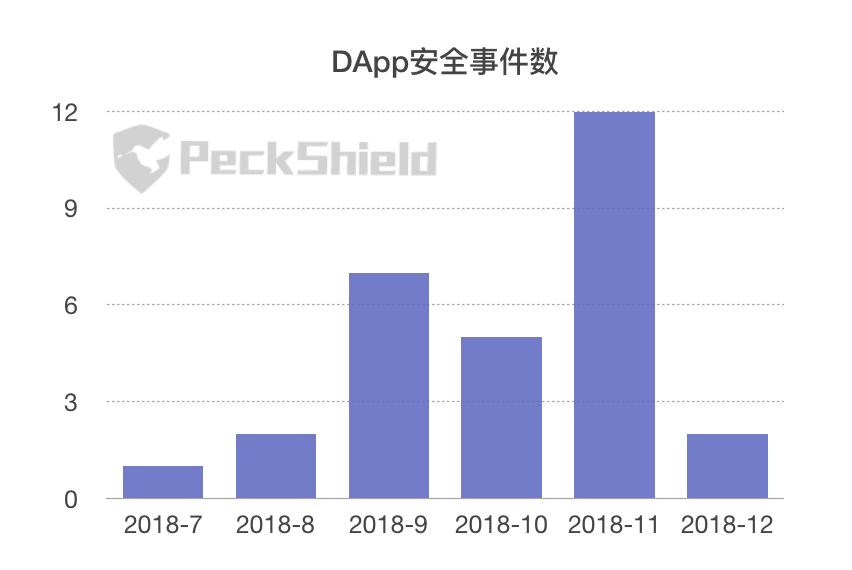
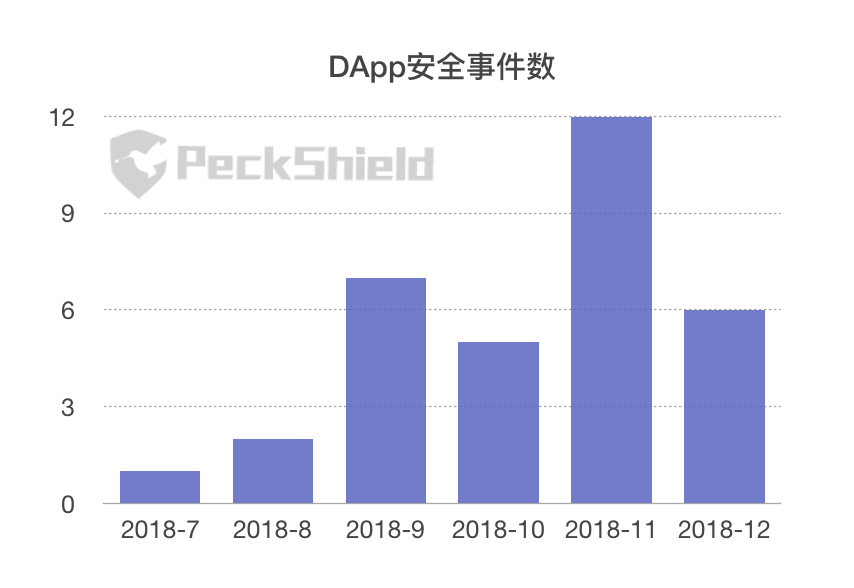
upate 2018-12-12

diff --git a/known_dapp_attacks/README.md b/known_dapp_attacks/README.md
@@ -3,11 +3,11 @@
 本文档根据发生的EOS DApp安全事件不定期更新，旨在记录EOS主网上线以来发生的各类DApp安全事件，供大家参考，同时欢迎大家对该文档提出建议及指正，以完善文档，一起促进EOS的生态健康发展。
 
 ## 概要
-截至2018年12月06日，共发生31起DApp安全事件，共损失超过41万个EOS
+截至2018年12月12日，共发生35起DApp安全事件，共损失超过41万个EOS
 ![EOS DApp安全事件列表](dapp_attacks_summary.png)
 
 ## EOS DApp安全事件列表
-截至2018年12月03日的安全事件列表：
+截至2018年12月12日的安全事件列表：
 ![EOS DApp安全事件列表](eos_dapp_attacks.png)
 
 ## EOS DApp安全事件历史版本
